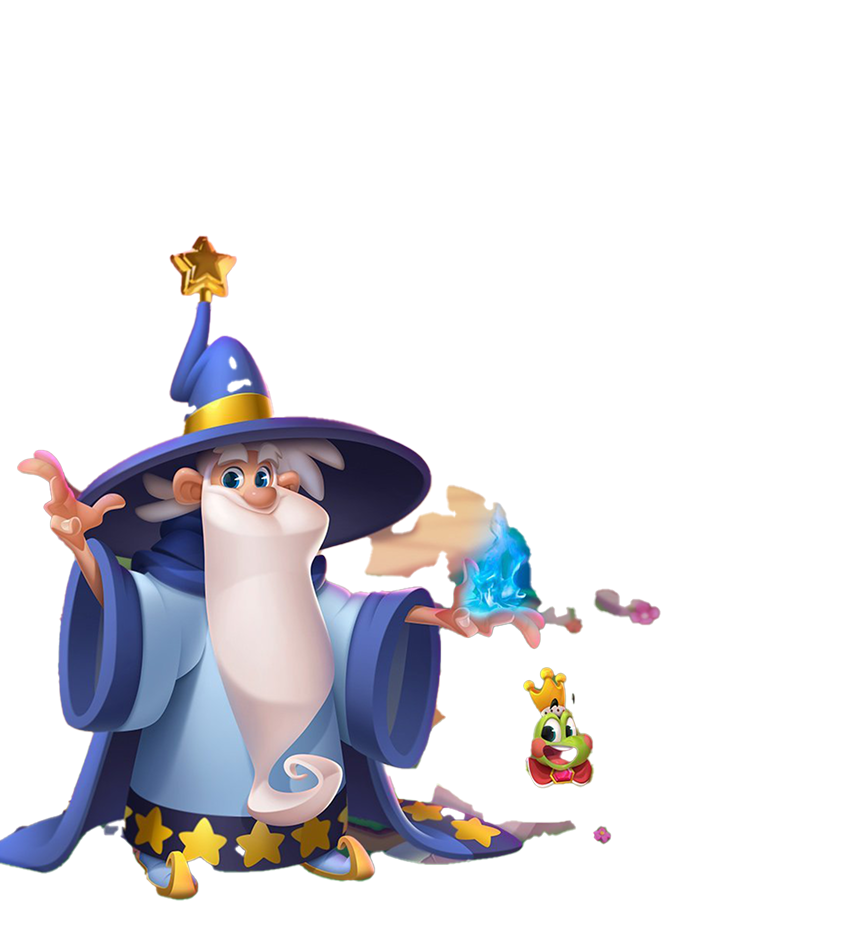
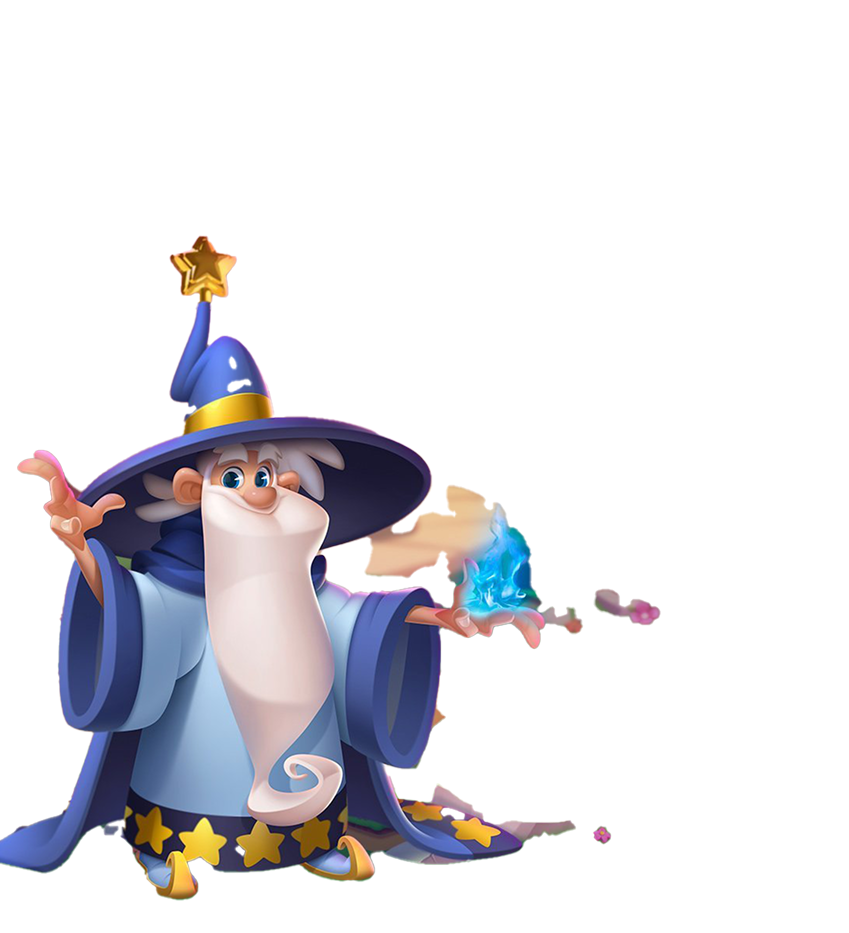
dieu chinh ong tien

Changed region(s): [[0.6125, 0.7149, 0.7044, 0.8392]]

diff --git a/src/pages/Header/index.tsx b/src/pages/Header/index.tsx
@@ -9,7 +9,7 @@ export function Header() {
   return (
     <div>
       <div className="relative">
-        <div className="backdrop-blur-sm bg-[radial-gradient(circle,_rgba(168,85,247,0.5)_0%,_rgba(168,85,247,0.4)_15%,_rgba(168,85,247,0.3)_30%,_rgba(168,85,247,0.15)_40%,_rgba(168,85,247,0.03)_50%,_rgba(168,85,247,0)_100%)] flex flex-col items-center justify-center absolute top-1/2 left-1/2 -translate-x-1/2 -translate-y-1/2  gap-y-14  text-white md:p-12 rounded-full  shadow-2xl shadow-white/5 ">
+        <div className="backdrop-blur-sm bg-[radial-gradient(circle,_rgba(168,85,247,0.5)_0%,_rgba(168,85,247,0.4)_15%,_rgba(168,85,247,0.3)_30%,_rgba(168,85,247,0.15)_40%,_rgba(168,85,247,0.03)_50%,_rgba(168,85,247,0)_100%)] flex flex-col items-center justify-center absolute top-1/2 left-1/2 -translate-x-1/2 -translate-y-1/2  gap-y-14  text-white md:p-12 rounded-full  shadow-2xl shadow-white/5 z-10">
           <div className="text-center">
             <div className="font-black text-[40px] md:text-[80px] font-playfair text-center leading-tight px-4 pb-4">
               <span className="block md:inline">We're </span>
@@ -34,11 +34,18 @@ export function Header() {
             </div>
           </div>
         </div>
-        <img
-          src="./images/ong-tien.png"
-          alt=""
-          className="absolute md:-bottom-10 md:left-0 md:-translate-x-0 left-1/2 -translate-x-1/3  -bottom-72 "
-        />
+        <div className="absolute md:-bottom-10 md:left-0 md:-translate-x-0 left-1/2 -translate-x-1/3  -bottom-72 h-auto w-full md:w-auto">
+          <img
+            src="./images/ong-tien.png"
+            alt=""
+            className=" md:w-[45vw]  h-full "
+          />
+          <img
+            src="./images/bup.png"
+            alt=""
+            className="h-16  md:h-24 absolute z-20 bottom-12 right-32 xl:right-72 xl:bottom-32  animate-bounce-smooth"
+          />
+        </div>
         <img
           src="./images/BG_header.png"
           alt=""

diff --git a/tailwind.config.js b/tailwind.config.js
@@ -4,12 +4,17 @@ module.exports = {
   theme: {
     extend: {
       keyframes: {
+        bounceSmooth: {
+          "0%, 100%": { transform: "translateY(0)" },
+          "50%": { transform: "translateY(-20px)" },
+        },
         wiggle: {
           "0%, 100%": { transform: "translateX(-80%) rotate(0deg)" },
           "30%": { transform: "translateX(-30%) rotate(12deg)" },
         },
       },
       animation: {
+        "bounce-smooth": "bounceSmooth 1.5s ease-in-out infinite",
         wiggle: "wiggle 6s ease-in-out infinite",
       },
       fontFamily: {
